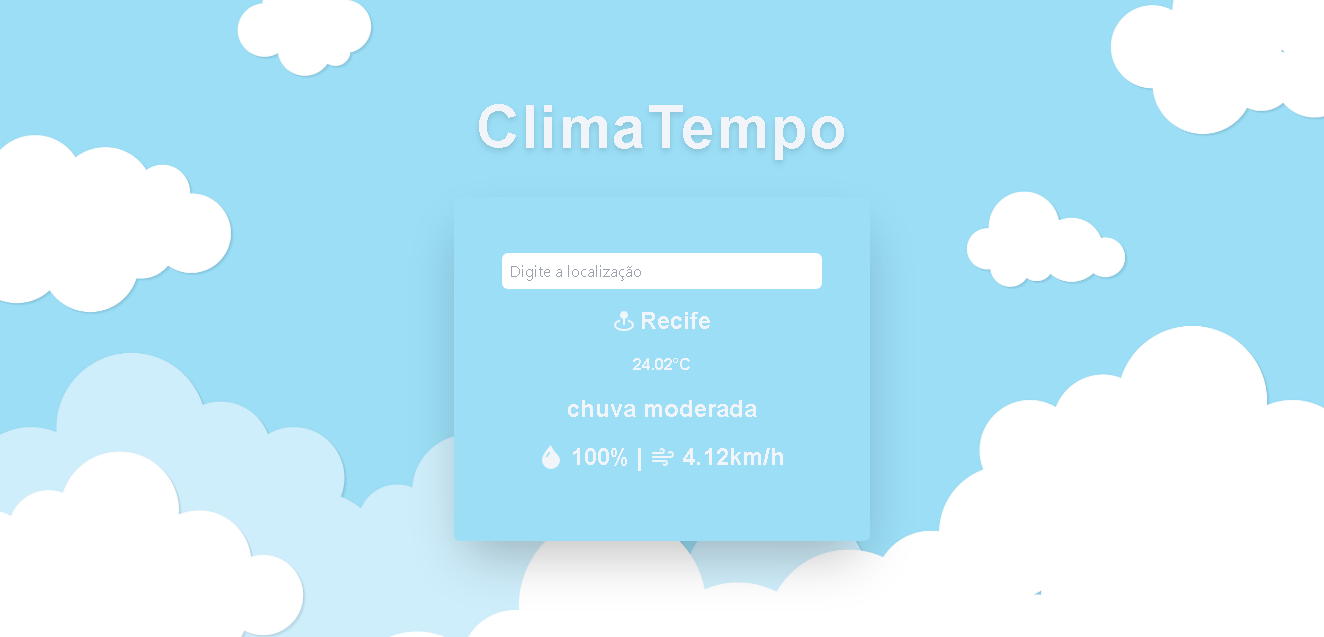
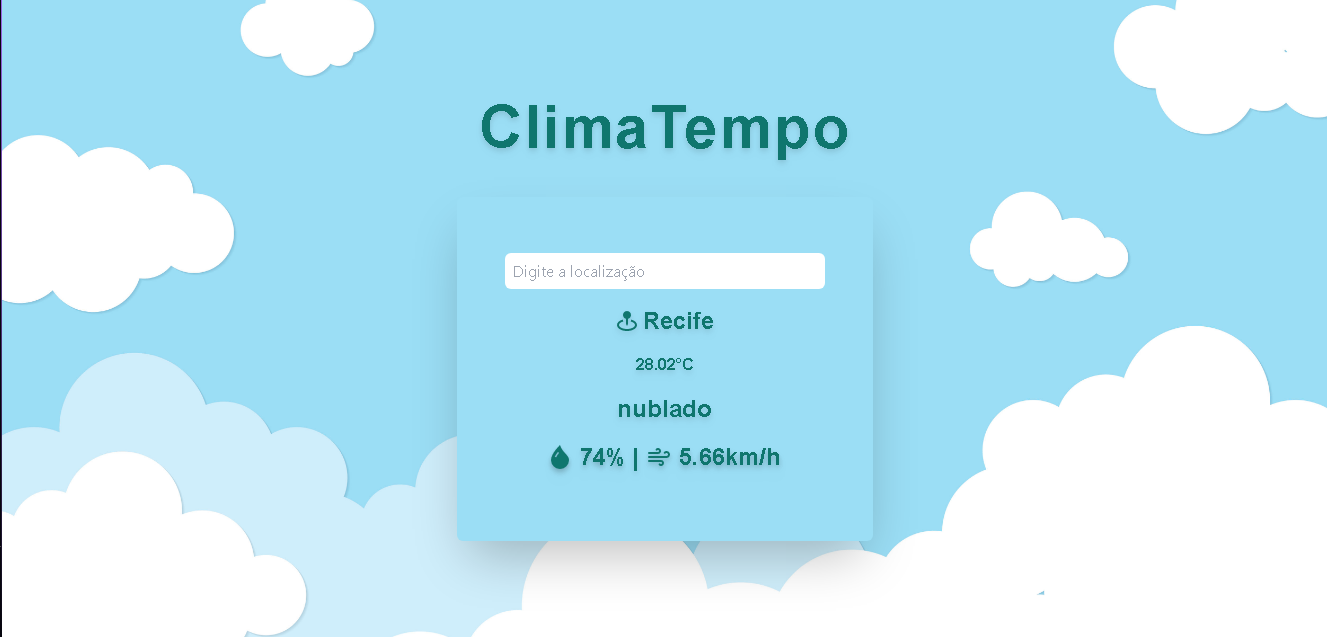
Ajustes

diff --git a/src/App.tsx b/src/App.tsx
@@ -44,14 +44,14 @@ export default function App() {
   return (
     <main style={{ backgroundImage: "url('src/assets/bg.jpg')", backgroundSize: "cover", backgroundPosition: "center", backgroundColor: "black" }}>
       <div className="h-screen flex flex-col items-center justify-center">
-        <h1 className="text-slate-100 font-bold font-inter text-6xl tracking-wide drop-shadow-md">ClimaTempo</h1>
+        <h1 className="text-teal-700 font-bold font-inter text-6xl tracking-wide drop-shadow-md">ClimaTempo</h1>
 
-        <div className="bg-bg mt-10 rounded-md shadow-2xl p-12 ">
+        <div className="bg-bg mt-10 rounded-md shadow-2xl p-12">
           <div className="flex flex-col items-center space-y-4 ">
             <input className="rounded-md w-80 h-9 pl-2 pr-2 mt-2 focus:outline-none" placeholder="Digite a localização" value={location} onChange={handleLocationInput} onKeyDown={handleLocationSearch}></input>
 
             <div>
-              <h1 className="text-slate-100 font-bold font-inter text-2xl ">
+              <h1 className="text-teal-700 font-bold font-inter text-2xl drop-shadow-md">
                 {data ? (
                   <p className="flex items-center">
                     <BiSolidMapPin className="mr-1" />
@@ -65,30 +65,30 @@ export default function App() {
               </h1>
             </div>
             <div>
-              <h1 className="text-slate-100 font-bold font-inter text-ml">
+              <h1 className="text-teal-700 font-bold font-inter text-ml drop-shadow-md">
                 {data?.main ? <p className="bold">{data.main.temp}°C</p> : null}
               </h1>
             </div>
             <div className="text-center">
-              <h1 className="text-slate-100 font-bold font-inter text-2xl">
+              <h1 className="text-teal-700 font-bold font-inter text-2xl drop-shadow-md">
                 {data && data.weather ? <p>{data.weather[0].description}</p> : null}
               </h1>
             </div>
             <div className="flex flex-row pb-5 space-x-2 text-center">
-              <h1 className="text-slate-100 font-bold font-inter text-2xl">
+              <h1 className="text-teal-700 font-bold font-inter text-2xl drop-shadow-md">
                 {data?.main ? (
-                  <p className="flex items-center ">
+                  <p className="flex items-center drop-shadow-md">
                     <BsFillDropletFill className="mr-2" />
                     {data.main.humidity}%
                   </p>
                 ) : null}
               </h1>
-              <h1 className="text-slate-100 font-bold font-inter text-2xl">
+              <h1 className="text-teal-700 font-bold font-inter text-2xl drop-shadow-md">
                 {data?.main ? <p>|</p> : null}
               </h1>
-              <h1 className="text-slate-100 font-bold font-inter text-2xl ">
+              <h1 className="text-teal-700 font-bold font-inter text-2xl drop-shadow-md">
                 {data?.wind ? (
-                  <p className="flex items-center">
+                  <p className="flex items-center drop-shadow-md">
                     <FiWind className="mr-2" />
                     {data.wind.speed}km/h
                   </p>
